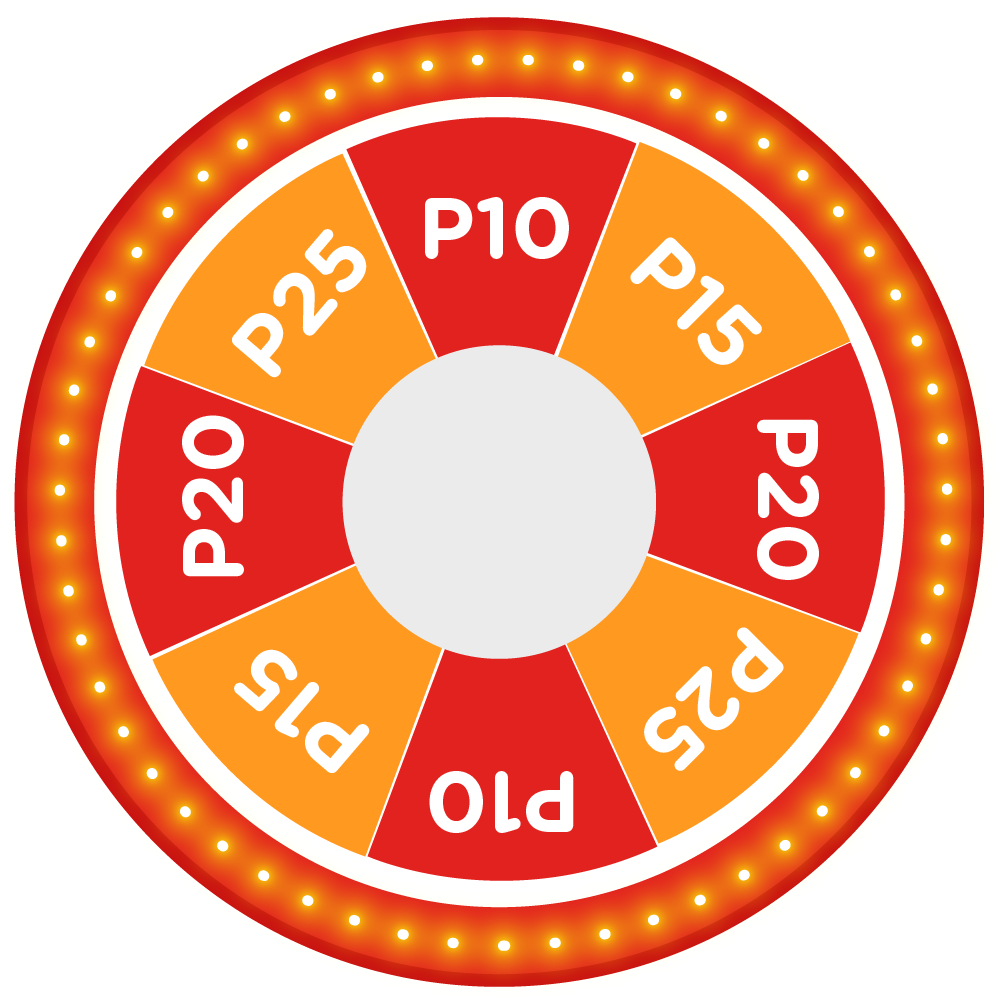
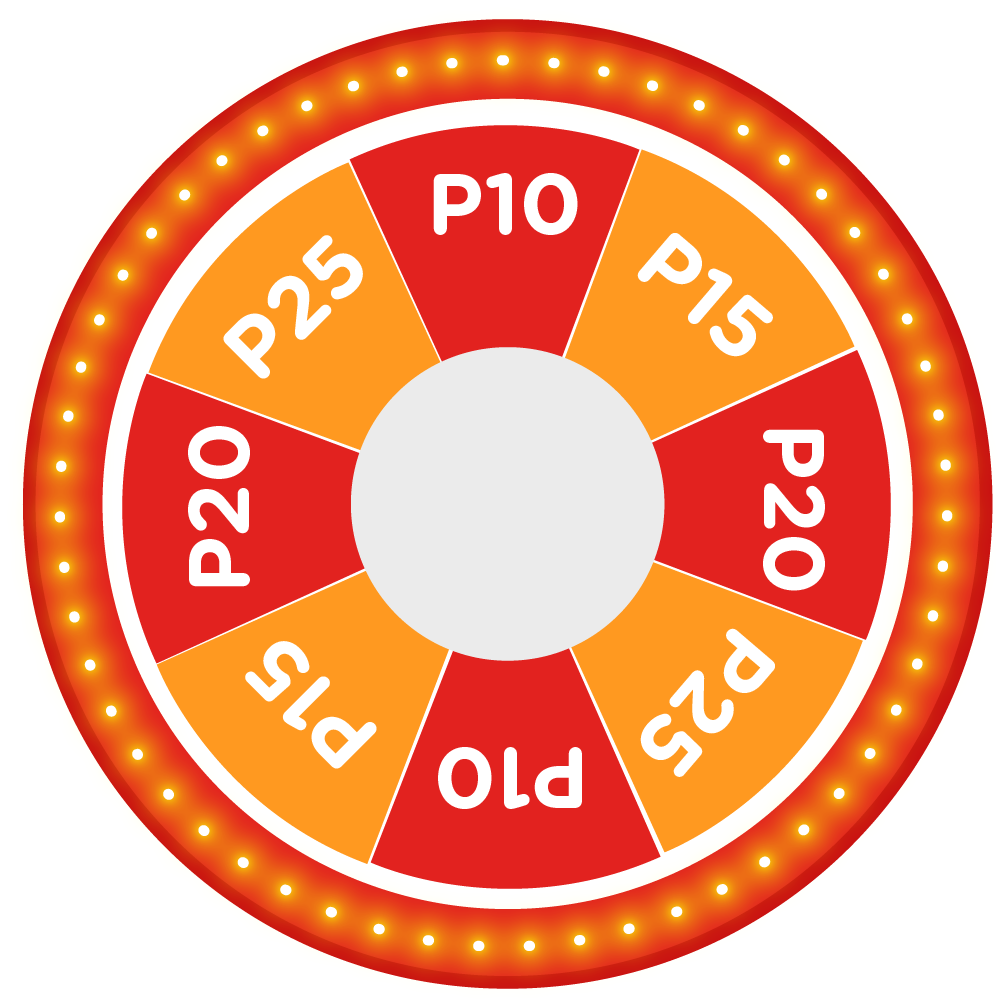
Update

diff --git a/application/views/registration/success.php b/application/views/registration/success.php
@@ -118,11 +118,11 @@
                   <span class="span7"><b>P15</b></span>
                   <span class="span8"><b>P15</b></span>
                 </div> -->
-                <img class="img-wheel" src="<?= base_url()?>/assets/img/wheel/Wheel_1.png">
+                <img class="img-wheel" src="<?= base_url()?>/assets/img/wheel/Updated wheel.png">
               </div>
 
               
-              <button class="spin" onclick="myfunction()">GO</button>
+              <button class="spin" onclick="spinFunction()">GO</button>
               <div class="spin-pointer">   
               </div>
               
@@ -166,6 +166,8 @@
               <img class="img-voucher" src="<?= base_url()?>/assets/img/wheel/20.png">
             <?php elseif($voucher_win == "P25"): ?>
               <img class="img-voucher" src="<?= base_url()?>/assets/img/wheel/25.png">
+            <?php elseif($voucher_win == "P50"): ?>
+              <img class="img-voucher" src="<?= base_url()?>/assets/img/wheel/50.png">  
             <?php endif ?>
             <input value="Ok" id="submit" data-bs-dismiss="modal" aria-label="Close"/>
             <!-- =========================================================================== -->
@@ -190,12 +192,12 @@
 
   <script>
 
-    var spinCount = 0;
-    function myfunction() {
-      if (spinCount > 3) {
-        alert("No more Spins");
-        return false;
-      }
+    var spinCount = 6;
+    function spinFunction() {
+      // if (spinCount > 3) {
+      //   alert("No more Spins");
+      //   return false;
+      // }
       var x = 1024; //min value
       var y = 9999; // max value
       document.getElementById("output").innerHTML = ""; 
@@ -209,18 +211,22 @@
       // SPAN 7 = (360 * 3) + (45 * 7); CHECK 15
       // SPAN 8 = (360 * 3) + (45 * 3); CHECK 15
 
-      switch("<?= $voucher_win ?>") {
+
+      switch("<?= $voucher_win?>") { 
         case "P10":
-          var deg = (360 * 3) + (45 * 4); 
+          var deg = (360 * 3) + (36 * 5); 
           break;
         case "P15":
-          var deg = (360 * 3) + (45 * 7); 
+          var deg = (360 * 3) + (36 * 4); 
           break;
         case "P20":
-          var deg = (360 * 3) + (45 * 2);
+          var deg = (360 * 3) + (36 * 3);
           break;
         case "P25":
-          var deg = (360 * 3) + (45 * 1);
+          var deg = (360 * 3) + (36 * 2);
+          break;
+        case "P50":
+          var deg = (360 * 3) + (36 * 1);
           break;
         default:
       }

diff --git a/application/models/Registration_model.php b/application/models/Registration_model.php
@@ -4,7 +4,7 @@
 
         function __construct(){
             parent::__construct();
-            $this->extremedeals= $this->load->database('extremedeals', TRUE);
+            $this->extremedeals= $this->load->database('default', TRUE);
             $this->load->helper(array('cookie', 'url')); 
             $this->load->library('user_agent');
         }
@@ -104,7 +104,7 @@
             $ch = curl_init();
             // https://dev.megabots.app/tvouch332/api/release
             // https://evoucher.totalretailrewards.com/api/release
-            curl_setopt($ch, CURLOPT_URL, "https://dev.megabots.app/tvouch332/api/release");
+            curl_setopt($ch, CURLOPT_URL, "https://dev.megabots.app/total_voucher/api/release");
             curl_setopt($ch, CURLOPT_POST, 1);
             $time = time();
             // $batch = 67;

diff --git a/application/controllers/Registration.php b/application/controllers/Registration.php
@@ -19,6 +19,9 @@ class Registration extends CI_Controller {
 	// ================================================================================
 	// ================================================================================
 
+	public function test(){
+		$this->load->view('registration/success');
+	}
 
 	public function index() {
 		redirect('/register');

diff --git a/application/config/database.php b/application/config/database.php
@@ -143,7 +143,7 @@ $db['default'] = array(
 	'hostname' => 'localhost',
 	'username' => 'root',
 	'password' => '',
-	'database' => 'test',
+	'database' => 'totalmembership',
 	'dbdriver' => 'mysqli',
 	'dbprefix' => '',
 	'pconnect' => FALSE,
